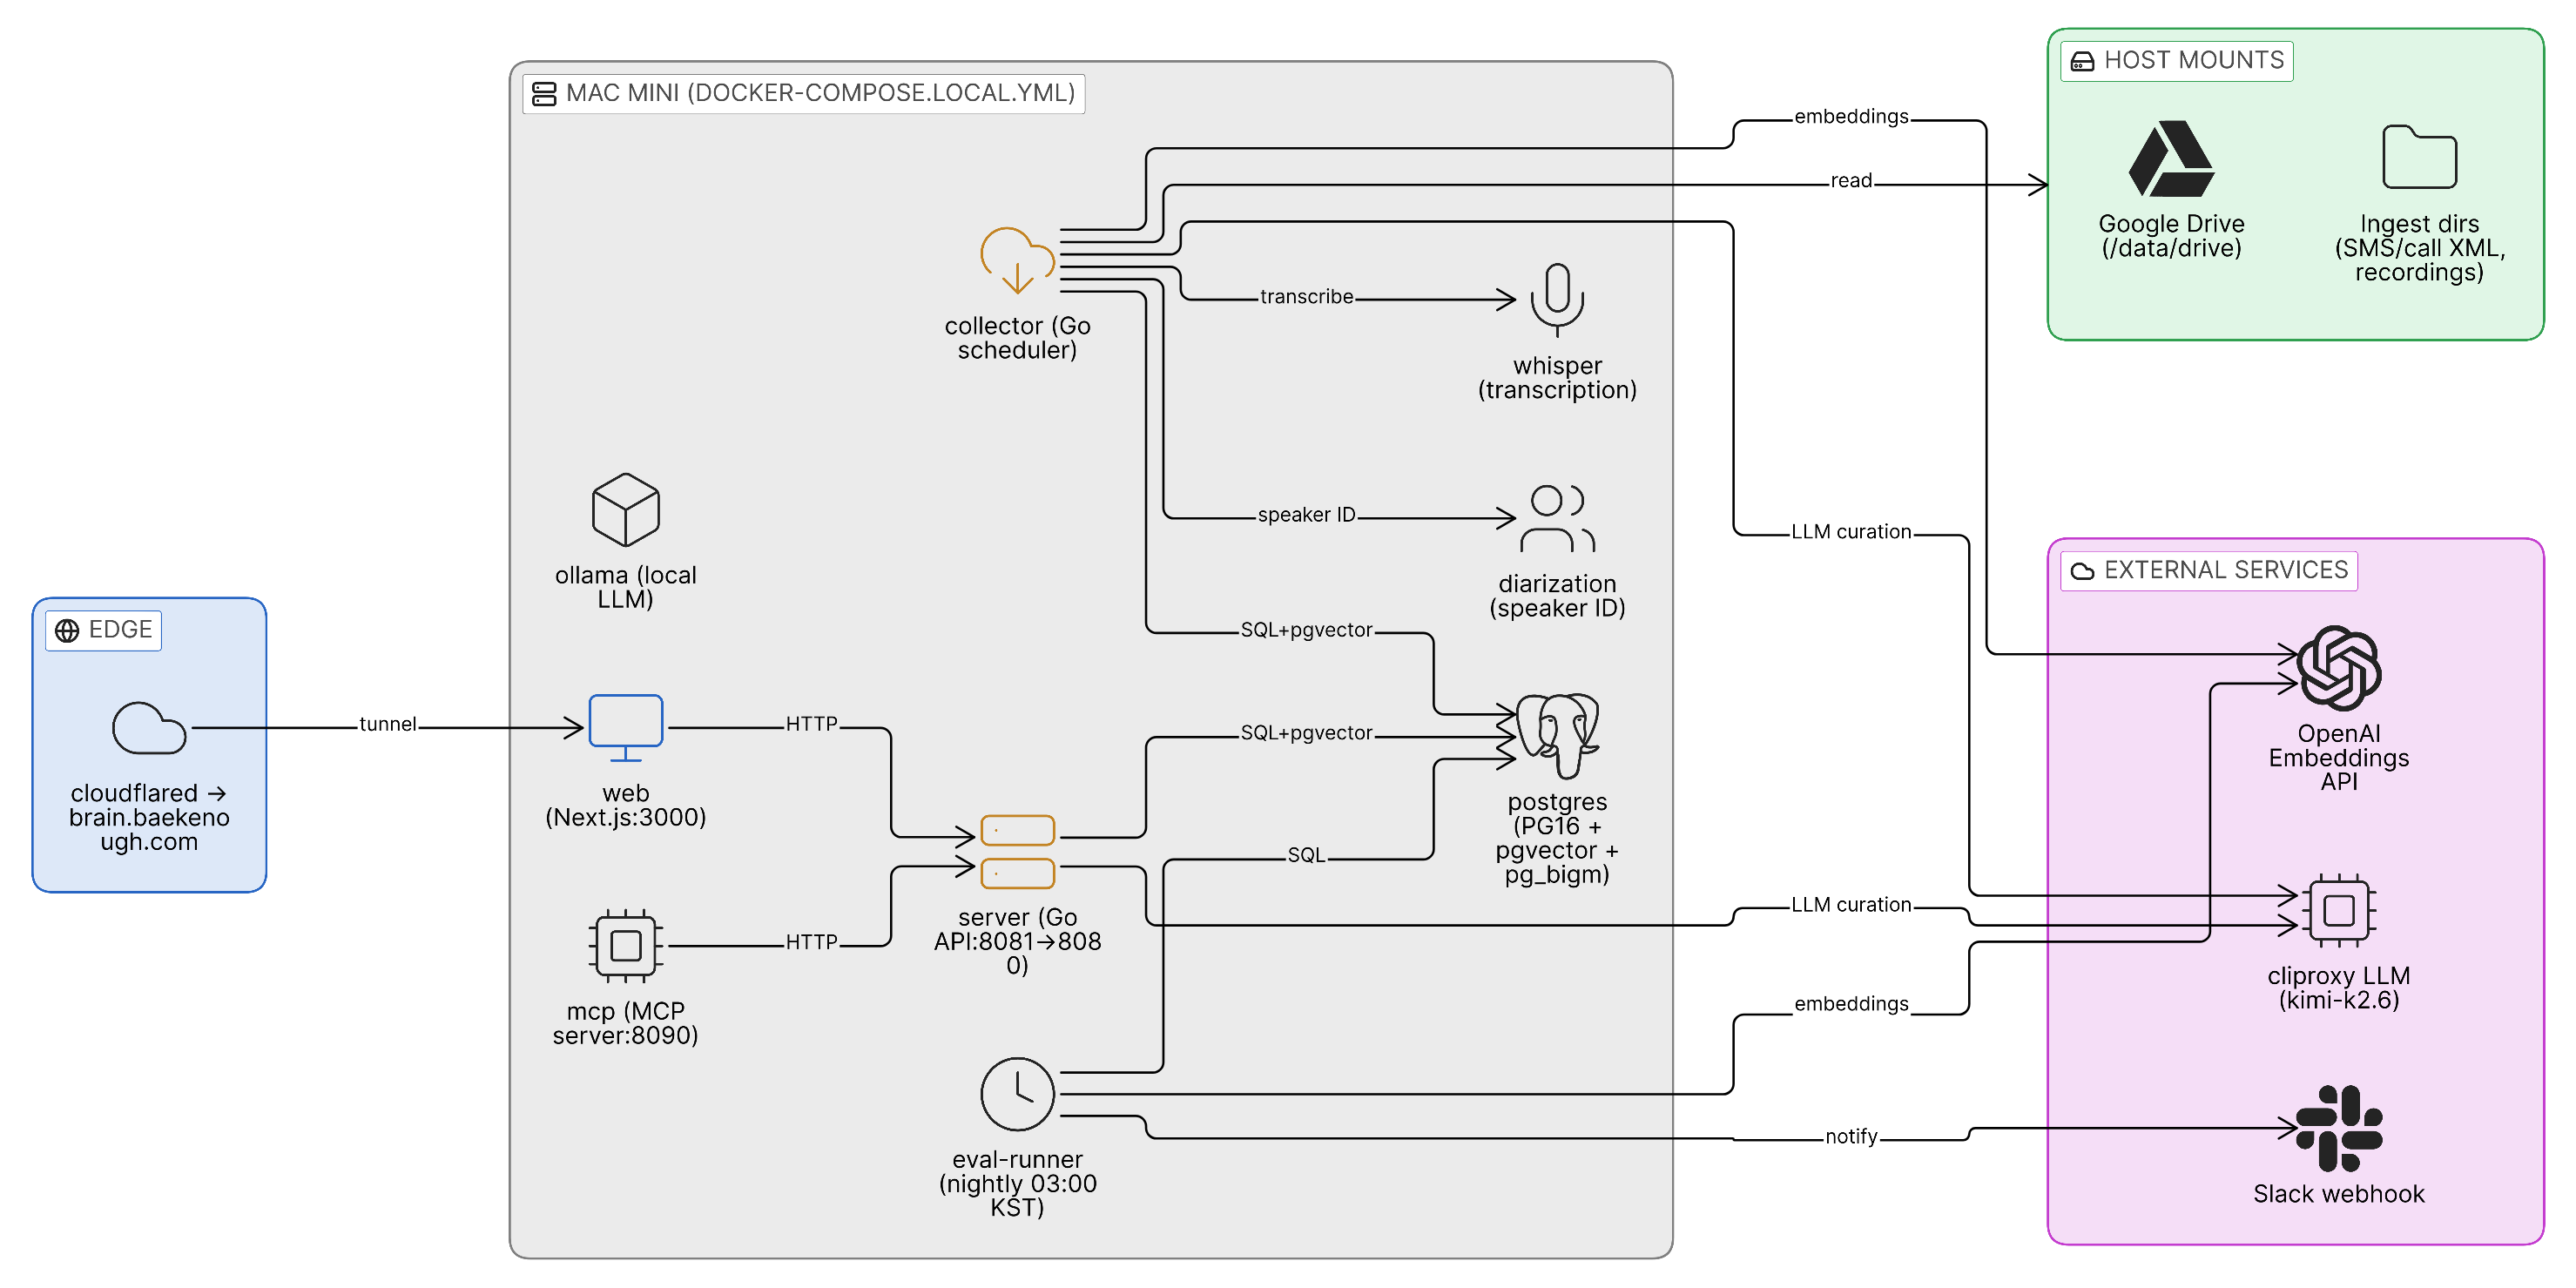
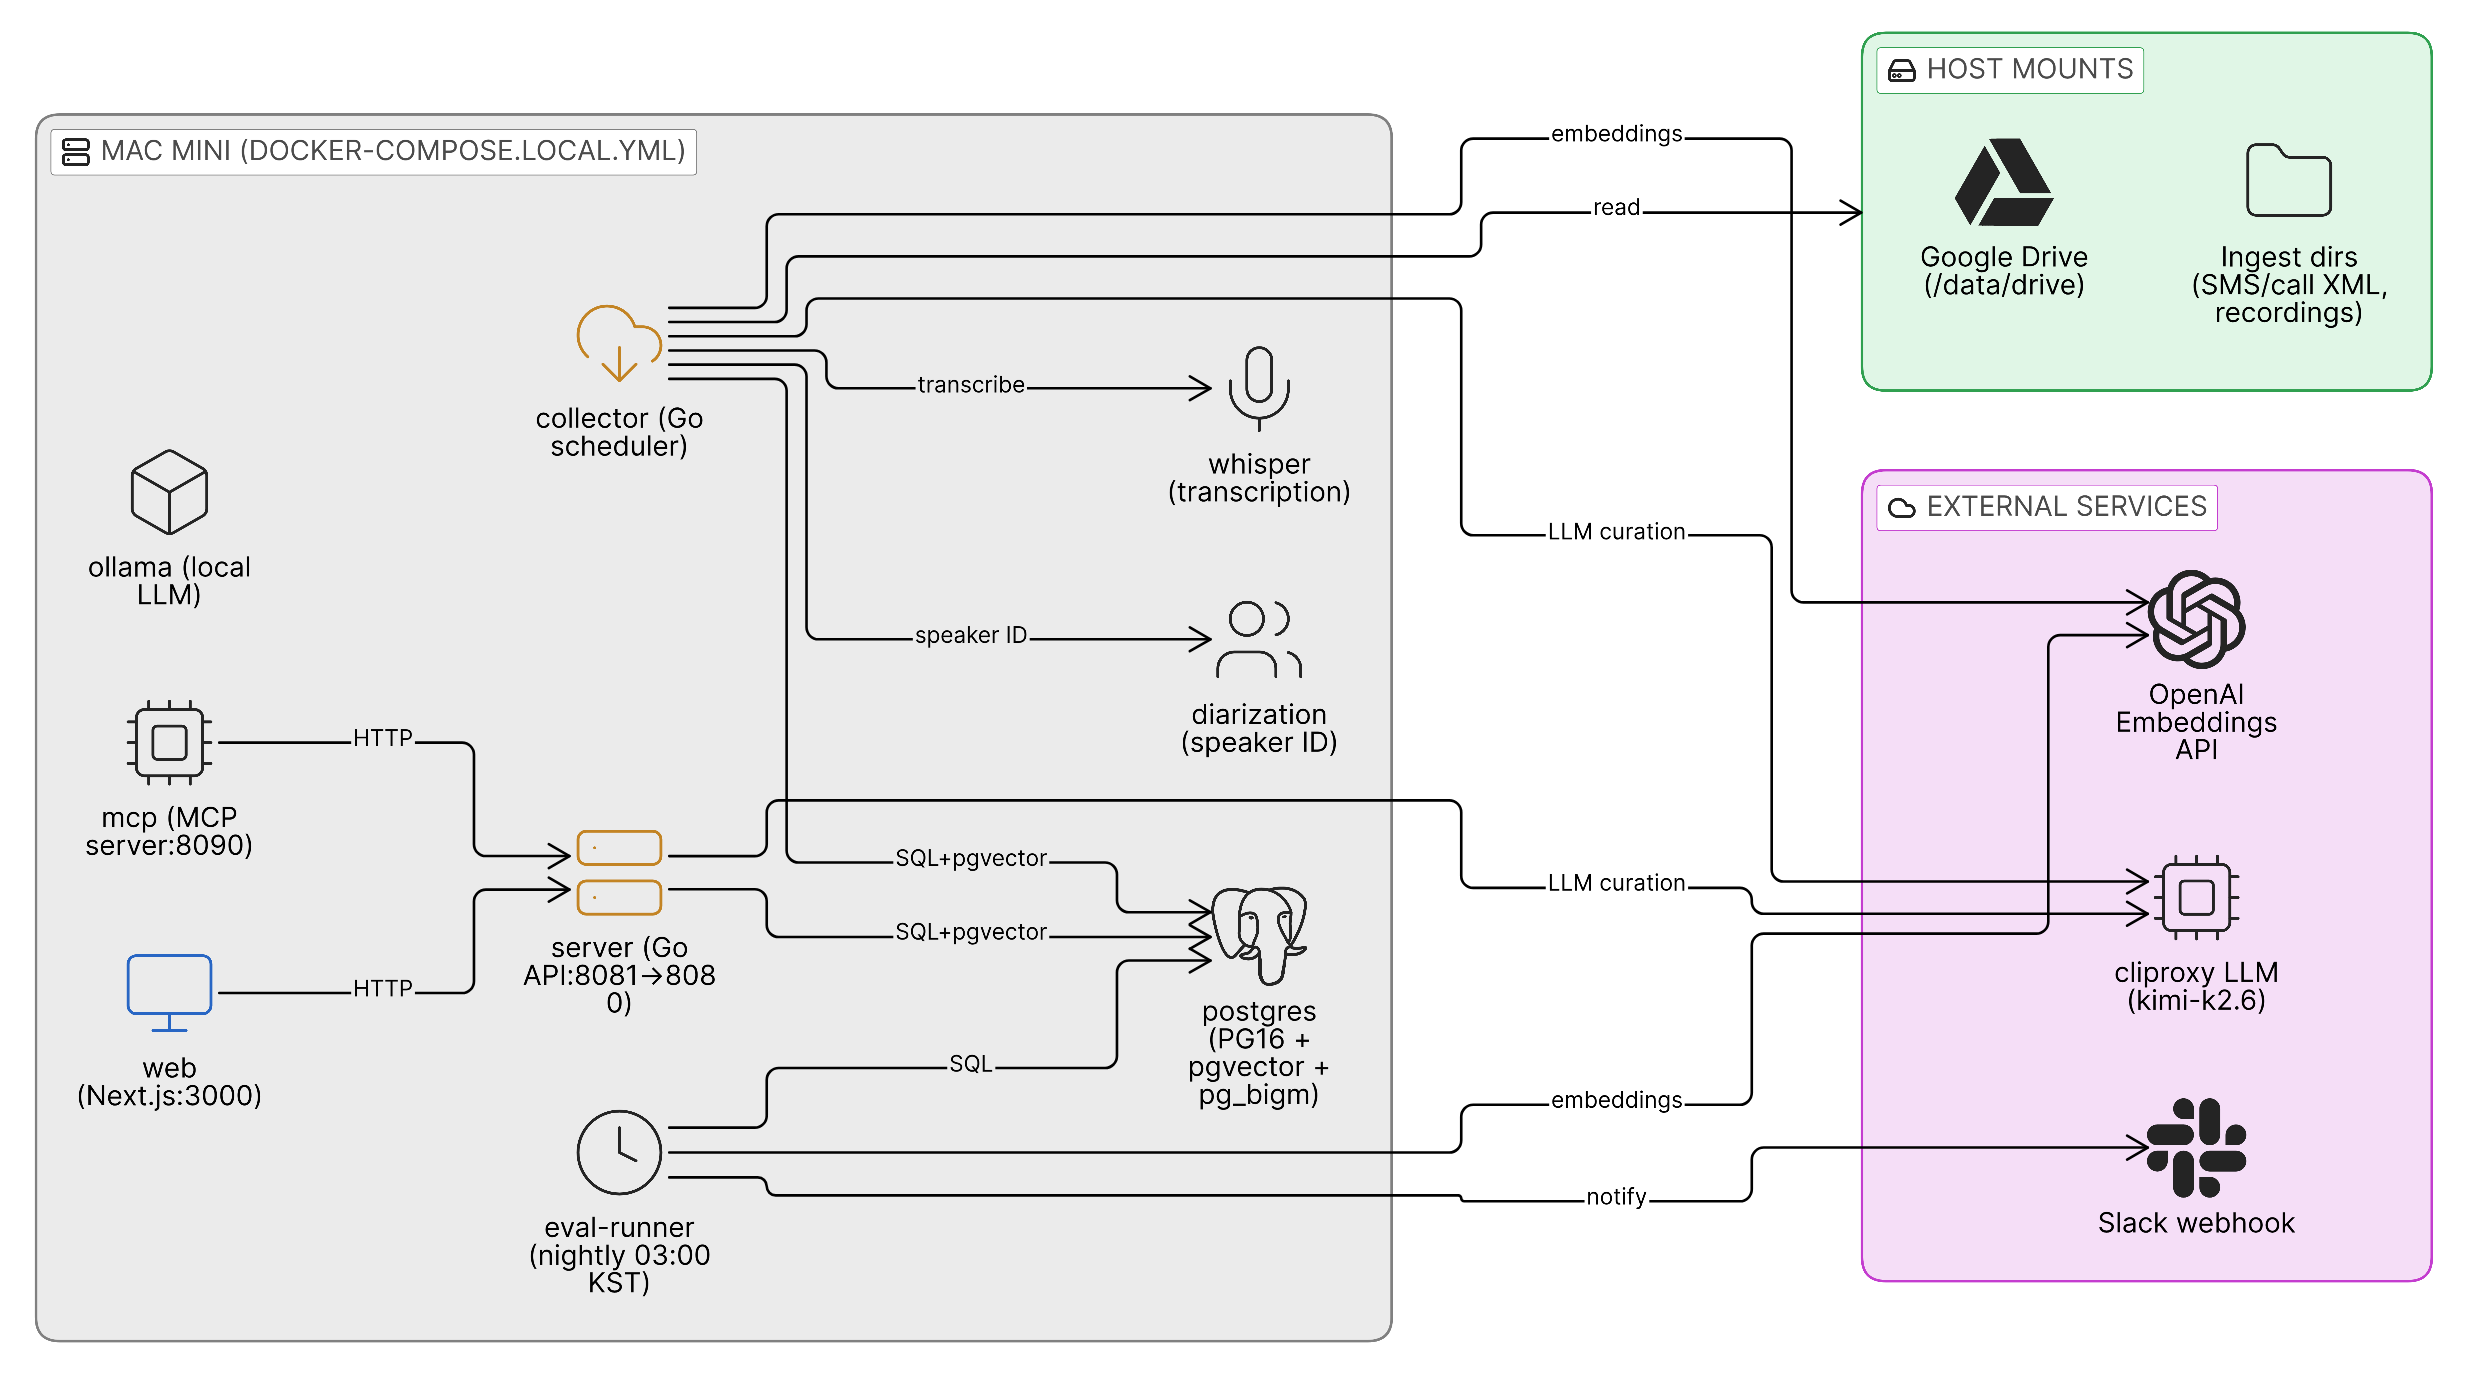
security: redact personal infra from public repo (domain, home-server IP/SSH, email, paths)
Remove production-infrastructure identifiers that must not live in a public repo:
- your-domain.example domain -> env vars / placeholders (docker-compose, web/.env.example,
  deploy/k8s, mobile comment, ARCHITECTURE docs)
- home-server IP:port / SSH alias / hostname / user in auto-dev.yaml -> placeholders
- personal email + /home/<user> hostPaths (scripts/sync-token.sh, collector-deployment.yaml, TODO.md)
- cloudflared tunnel URLs / DNS records in sys-memory-keeper notes -> redacted
- remove the public-edge (cloudflared tunnel) group from the system-topology diagram

No live secrets were present. GitHub handle/repo/Kotlin package name preserved (inherently public).

diff --git a/.claude/agent-memory/sys-memory-keeper/project-second-brain-state.md b/.claude/agent-memory/sys-memory-keeper/project-second-brain-state.md
@@ -33,8 +33,8 @@ second-brain 프로젝트 2026-04-15 세션 종료 시점 상태.
 - 오픈 이슈: #2 #6 #12~20 #22~26 #34 #42 등 (decision-needed, phase 2-4 로드맵, 외부 토큰 필요)
 - 로컬: `.claude/skills/pipeline/SKILL.md` M 상태 (upstream 업데이트, 의도적 미커밋)
 - **서버 배포 없음**: k8s/Docker/cloudflared/cli-proxy-api 전부 제거됨
-- <deploy-host> 서버에는 Airflow·Kafka 등 다른 서비스만 잔존
-- Cloudflare DNS `your-domain.example` 레코드 사용자 수동 제거 필요
+- <redacted-hostname> 서버에는 Airflow·Kafka 등 다른 서비스만 잔존
+- Cloudflare DNS `<redacted-domain>` 레코드 사용자 수동 제거 필요
 
 ## 재배포 시 주요 참고사항
 

diff --git a/.claude/agent-memory/sys-memory-keeper/project-context.md b/.claude/agent-memory/sys-memory-keeper/project-context.md
@@ -50,7 +50,7 @@ type: project
 
 ### cloudflared tunnel
 - **상태**: Quick Tunnel 활성 (재기동 시 URL 변경됨)
-- **현재 URL**: `https://influenced-computational-smaller-sharp.trycloudflare.com` → `localhost:9200`
+- **현재 URL**: `<redacted-tunnel-url>` → `localhost:9200`
 
 ### 주요 API 엔드포인트
 - `POST /api/v1/collect/trigger` — 수동 수집 트리거

diff --git a/.claude/agent-memory/sys-memory-keeper/session-2026-04-13-org-migration.md b/.claude/agent-memory/sys-memory-keeper/session-2026-04-13-org-migration.md
@@ -16,7 +16,7 @@ type: project
 - **GitHub remote 변경**: `[email redacted]:<maintainer>/<old-repo>.git` → `[email redacted]:<org>/<old-repo>.git`
 - **gh CLI 활성 계정**: `<maintainer>` (baekenough → <maintainer> 전환)
 - **minikube VM 메모리**: 7 GB → 8 GB (`docker update --memory 8g` in-place 적용)
-- **cloudflared Quick Tunnel**: `https://influenced-computational-smaller-sharp.trycloudflare.com` → `localhost:9200` (재기동 시 URL 변경됨)
+- **cloudflared Quick Tunnel**: `<redacted-tunnel-url>` → `localhost:9200` (재기동 시 URL 변경됨)
 
 ### 코드 변경 (커밋 4개)
 

diff --git a/.claude/agent-memory/sys-memory-keeper/session-2026-04-14-autonomous.md b/.claude/agent-memory/sys-memory-keeper/session-2026-04-14-autonomous.md
@@ -13,7 +13,7 @@ type: project
 ## 타임라인
 
 - **초반**: <old-repo> → second-brain rename, 권한 복구(chown), 프로젝트·문서·ARCHITECTURE 보강
-- **1차 배포**: git reinit → GitHub baekenough 퍼블리시 → v0.1.0 태그 → <deploy-host> 서버 배포 (minikube + cloudflared named tunnel)
+- **1차 배포**: git reinit → GitHub baekenough 퍼블리시 → v0.1.0 태그 → <redacted-hostname> 서버 배포 (minikube + cloudflared named tunnel)
 - **Discord 통합**: 봇 토큰 받아 collector/RAG gateway 구현, cliproxy via gpt-codex-5.3 연동
 - **자율주행 릴리즈**: v0.1.6(CI 파운데이션) → v0.1.7(P0 버그) → v0.1.8(docs+secret+첨부) → v0.1.9(chunks) → v0.1.10(heading+realtime) → v0.1.11(feedback+HyDE+reactions) → v0.1.12(eval+metrics) → v0.1.13(UUID hotfix) → v0.1.14(Intent hotfix)
 

diff --git a/ARCHITECTURE.en.md b/ARCHITECTURE.en.md
@@ -791,7 +791,7 @@ The `eval-runner` service in `docker-compose.local.yml` uses a shell loop to run
 
 ### Current: Mac mini docker-compose (Production)
 
-Production runs on `docker-compose.local.yml`. External access is handled via the `your-domain.example` tunnel.
+Production runs on `docker-compose.local.yml`. External access is handled via a private reverse tunnel (endpoint not published).
 
 ```bash
 # Deploy / update

diff --git a/ARCHITECTURE.md b/ARCHITECTURE.md
@@ -809,7 +809,7 @@ flowchart LR
 
 ### 현행: Mac mini docker-compose (프로덕션)
 
-프로덕션 환경은 `docker-compose.local.yml`로 운영한다. 외부 접근은 `your-domain.example` 터널을 통해 처리.
+프로덕션 환경은 `docker-compose.local.yml`로 운영한다. 외부 접근은 비공개 리버스 터널을 통해 처리(엔드포인트 미공개).
 
 ```bash
 # 배포 / 업데이트

diff --git a/TODO.md b/TODO.md
@@ -14,7 +14,7 @@ To enable later:
    ```bash
    ssh host1 'sudo microk8s kubectl -n second-brain rollout restart deployment/second-brain deployment/second-brain-collector'
    ```
-4. Also set the same key on laptop (`docker-compose.laptop-collector.yml`) and host2 (`/home/baekenough/second-brain-collector/docker-compose.yml`) EMBEDDING_API_KEY env.
+4. Also set the same key on laptop (`docker-compose.laptop-collector.yml`) and host2 (`/home/<user>/second-brain-collector/docker-compose.yml`) EMBEDDING_API_KEY env.
 5. Restart those compose stacks.
 6. Trigger a full re-embed: reset collected_at on all filesystem docs so the next scheduler tick re-processes them:
    ```bash

diff --git a/plan/deployment-plan.md b/plan/deployment-plan.md
@@ -25,7 +25,7 @@ Phase 0-1은 현재 MacBook에서, Phase 2-7은 Mac mini 수령 후 진행한다
   brew install cloudflared
   cloudflared tunnel --url http://localhost:9200
   ```
-  - 발급된 `https://*.trycloudflare.com` URL 기록 (팀 공유용)
+  - 발급된 `https://<your-tunnel>.example` URL 기록 (팀 공유용)
   - Quick Tunnel은 재시작 시 URL이 바뀌므로 영구 사용 시 Named Tunnel 전환 필요
 - [ ] API 토큰 인증 미들웨어 확인
   - Bearer 토큰 방식 (`API_KEY` 환경변수)